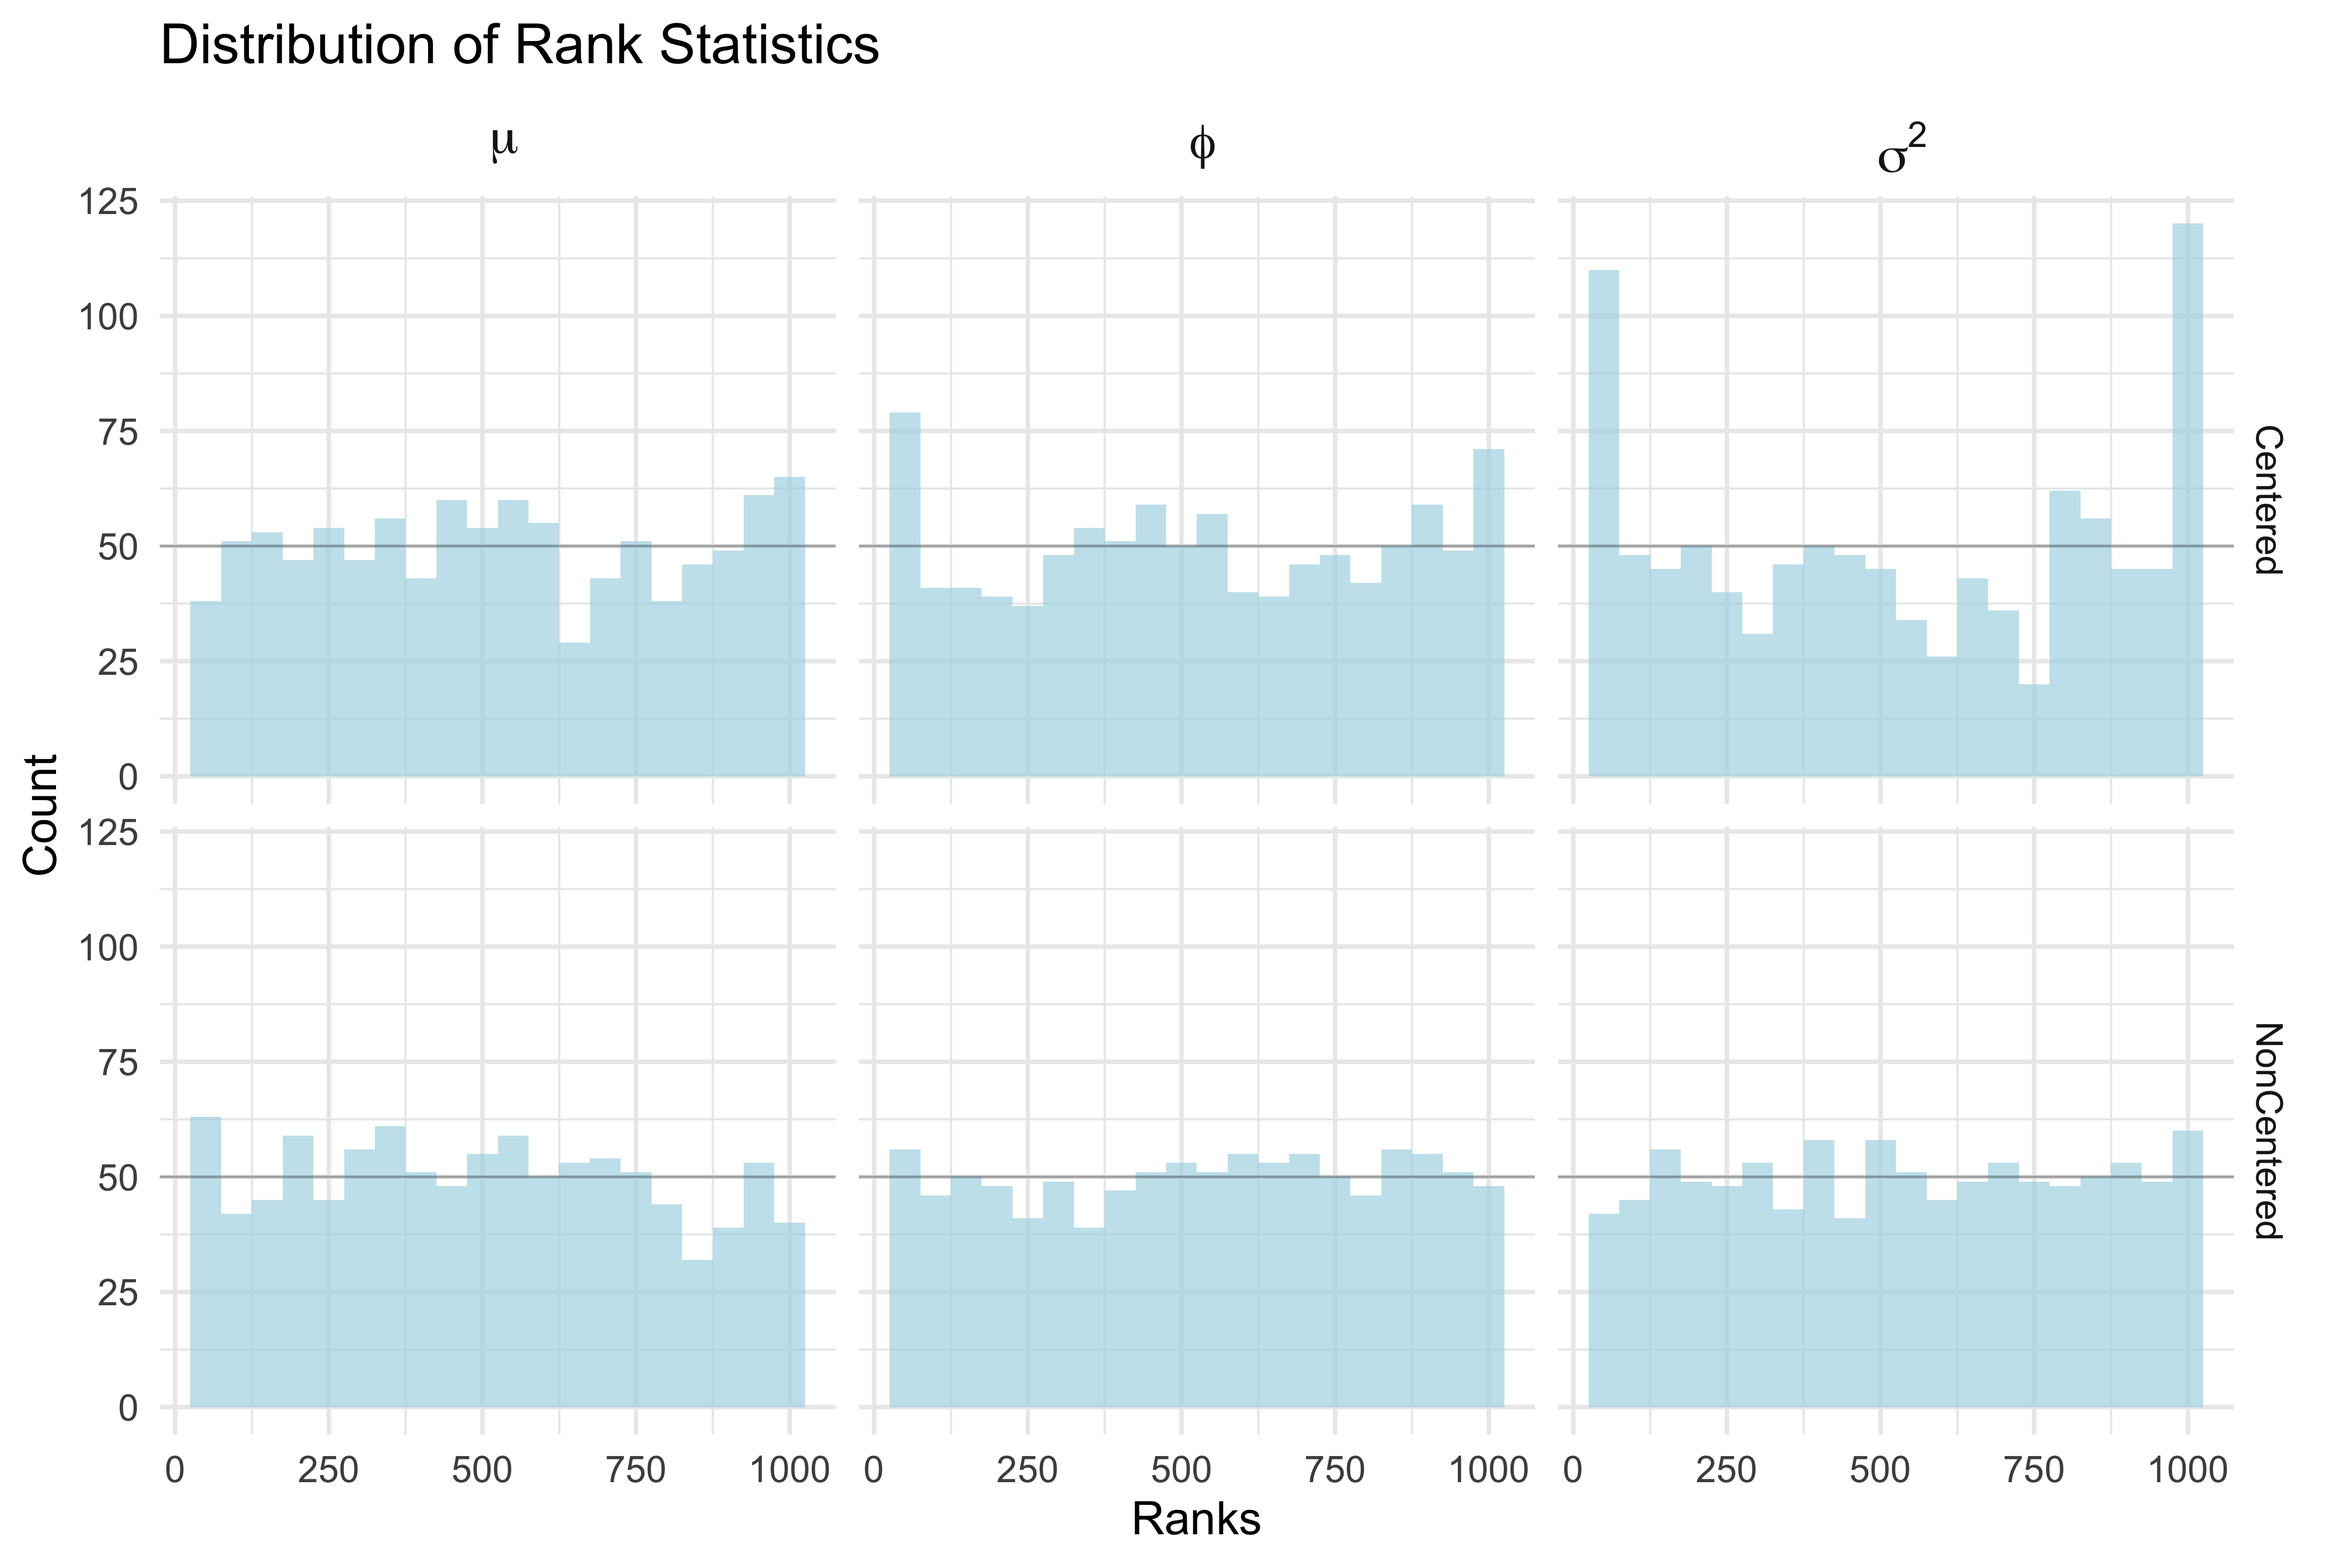
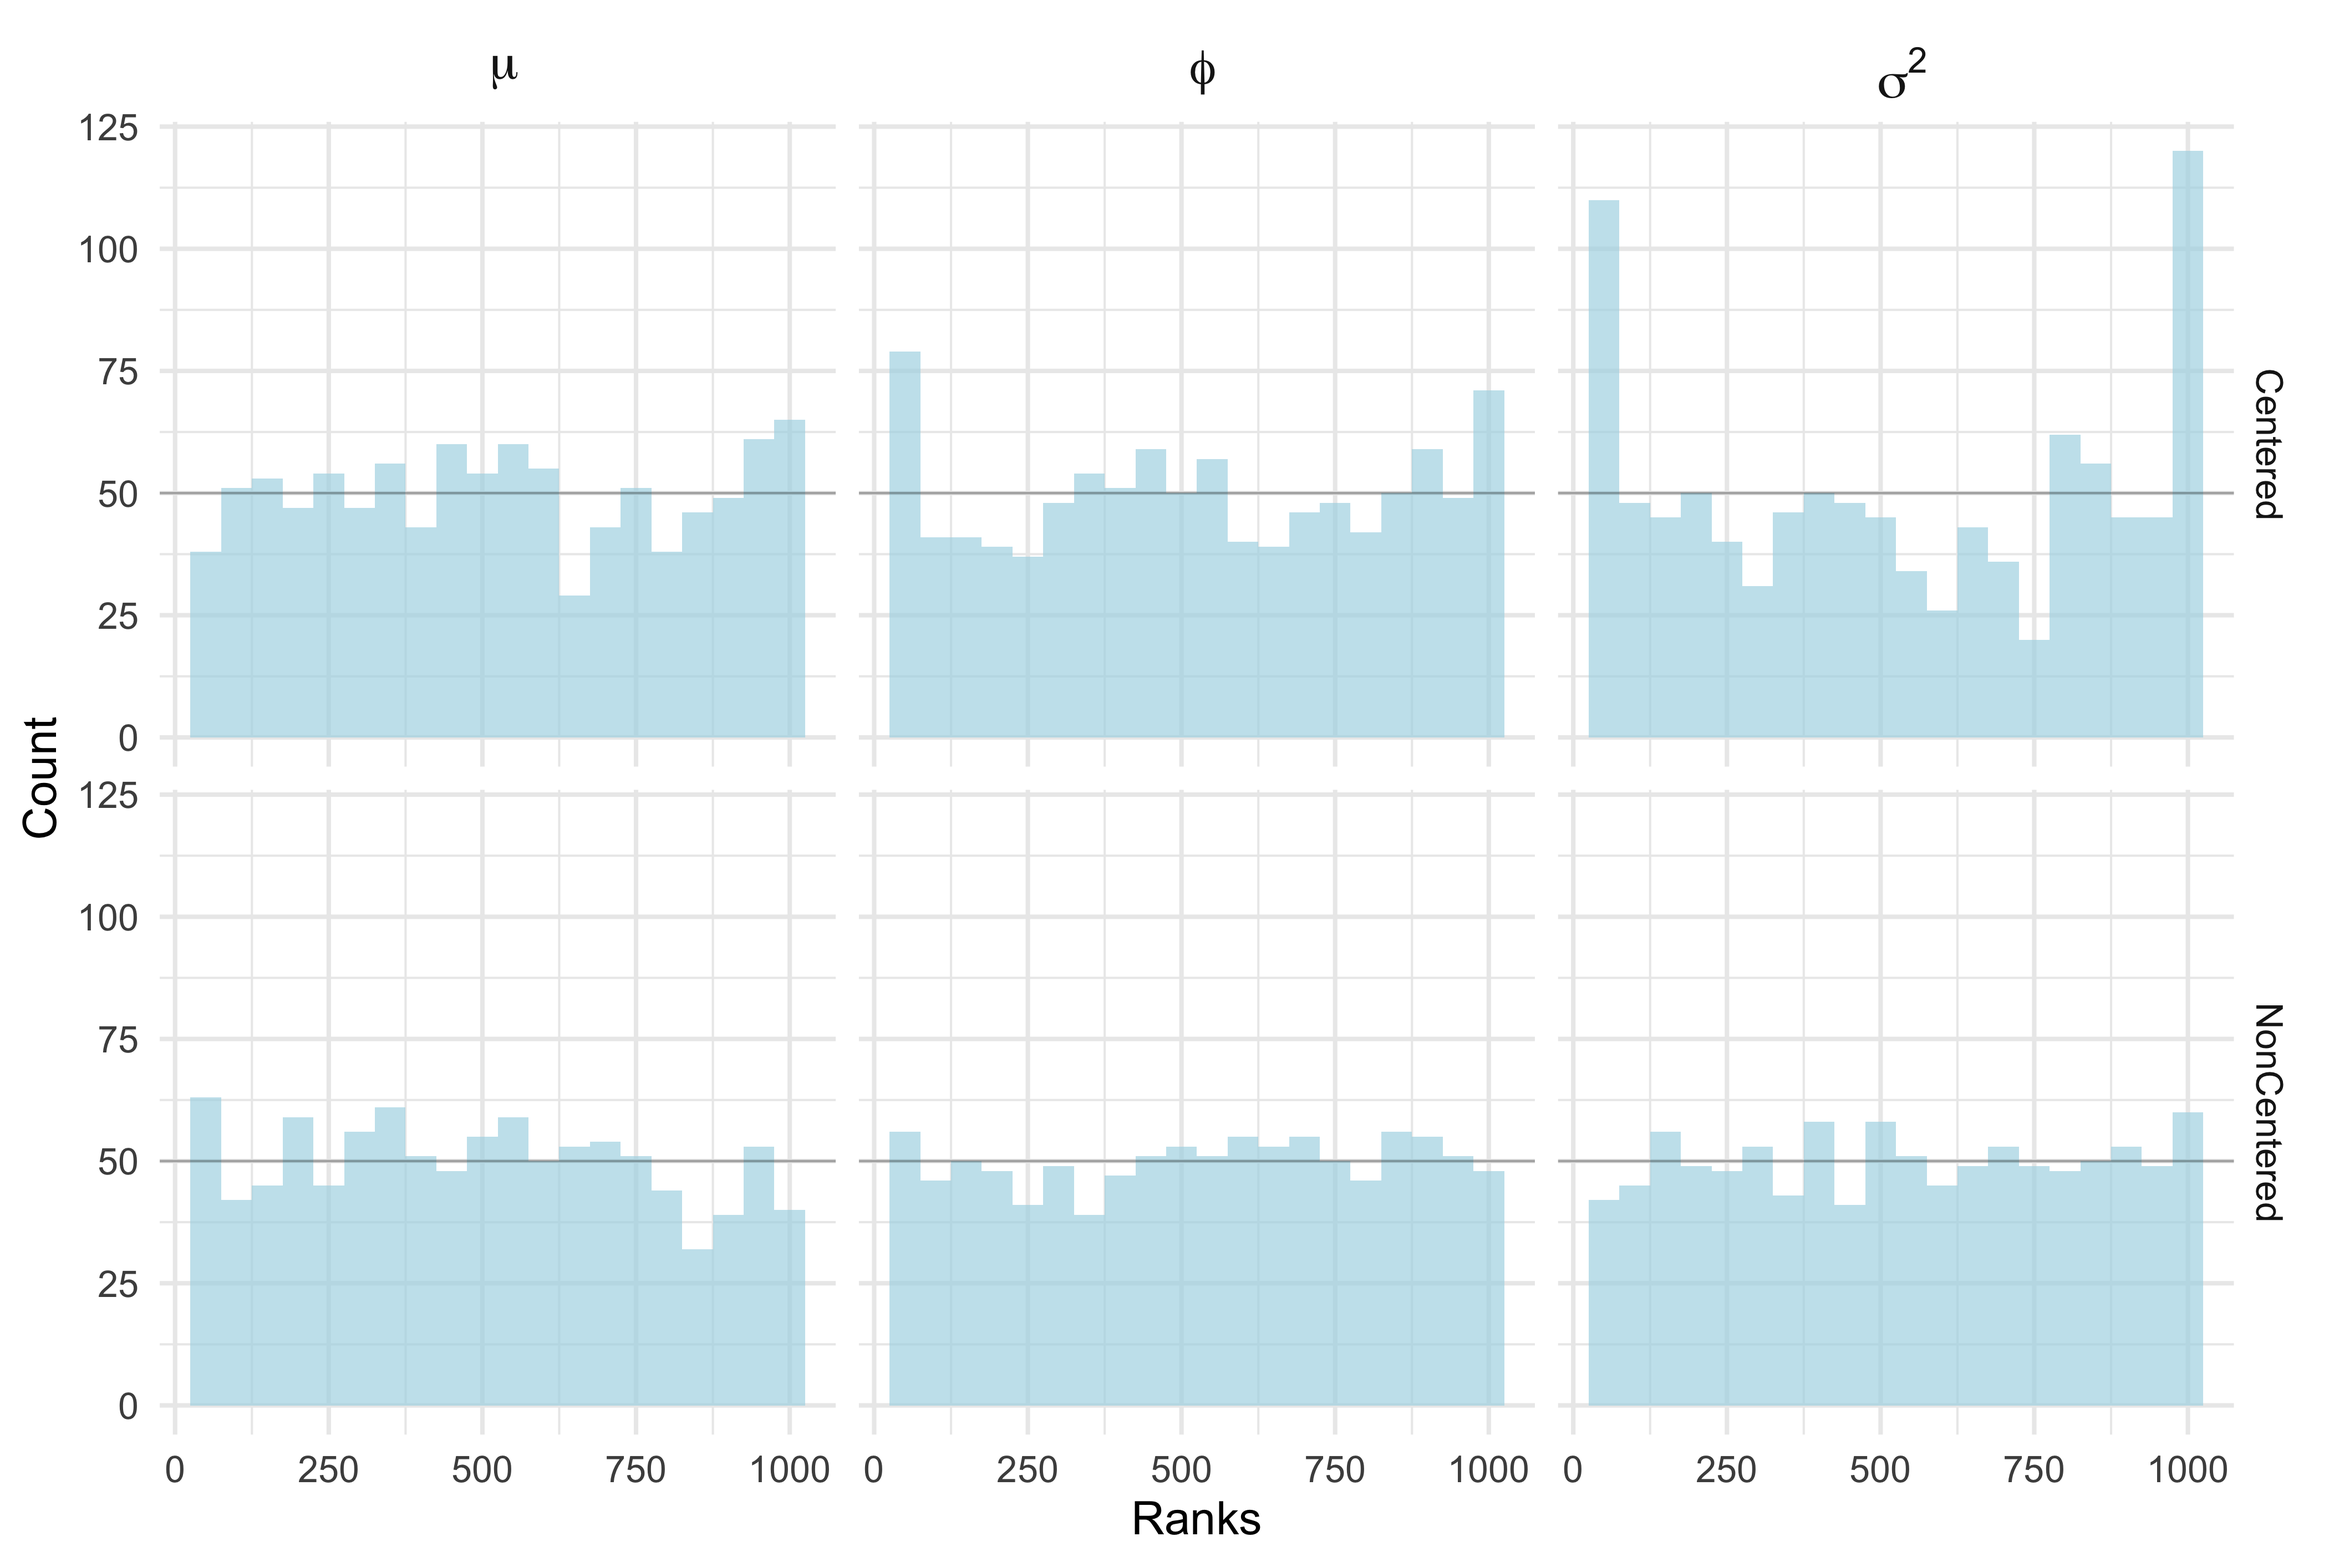
Extra histograms and ess plots

diff --git a/manuscript/main.tex b/manuscript/main.tex
@@ -352,7 +352,20 @@ right  = 1.0in]{geometry}
     \begin{figure}[H]
         \centering
         \includegraphics[scale=0.1]{results/hmc_1k.png}
-        \caption{Distribution of rank statistics for centered and non centered Hamiltoninan Monte Carlo (static parameters). Non centered histograms look approximately uniform. The centered parameterisation struggles to estimate $\sigma^2$}
+        \caption{Distribution of 1000 rank statistics for centered and non centered Hamiltoninan Monte Carlo (static parameters). Non centered histograms look approximately uniform. The centered parameterisation struggles to estimate $\sigma^2$}
+    \end{figure}
+
+    \begin{figure}[H]
+        \centering
+        \includegraphics[scale=0.1]{results/hmc_5k.png}
+        \caption{Distribution of 5000 rank statistics for centered and non centered Hamiltoninan Monte Carlo (static parameters). Non centered histograms look approximately uniform. The centered parameterisation struggles to estimate $\sigma^2$}
+    \end{figure}
+
+
+    \begin{figure}[H]
+        \centering
+        \includegraphics[scale=0.1]{results/hmc_ess.png}
+        \caption{Boxplots of effective sample size after 5000 iterations of SBC}
     \end{figure}
 
 
@@ -361,7 +374,7 @@ right  = 1.0in]{geometry}
     \begin{figure}[H]
         \centering
         \includegraphics[scale=0.1]{results/ksc_1k.png}
-        \caption{Distribution of rank statistics for centered and non centered Gaussian mixture model(static parameters). All parameters display a lack of calibration}
+        \caption{Distribution of 1000 rank statistics for centered and non centered Gaussian mixture model(static parameters). All parameters display a lack of calibration}
     \end{figure}
 
     \subsection{Reweigthing rank statistics of Gaussian Mixture}
@@ -369,13 +382,13 @@ right  = 1.0in]{geometry}
     \begin{figure}[H]
         \centering
         \includegraphics[scale=0.1]{results/sir_1k.png}
-        \caption{Distribution of rank statistics for weighted resampled model (static parameters) with 1000 SBC iterations. All parameters display a lack of calibration}
+        \caption{Distribution of 1000 rank statistics for weighted resampled model (static parameters) with 1000 SBC iterations. All parameters display a lack of calibration}
     \end{figure}
 
     \begin{figure}[H]
         \centering
         \includegraphics[scale=0.1]{results/sir_5k.png}
-        \caption{Distribution of rank statistics for weighted resampled model (static parameters) with 5000 SBC iterations. Increasing number of SBC parameters does not improve results}
+        \caption{Distribution of 5000 rank statistics for weighted resampled model (static parameters) with 5000 SBC iterations. Increasing number of SBC parameters does not improve results}
     \end{figure}
 
     \subsection{All models and parameters}
